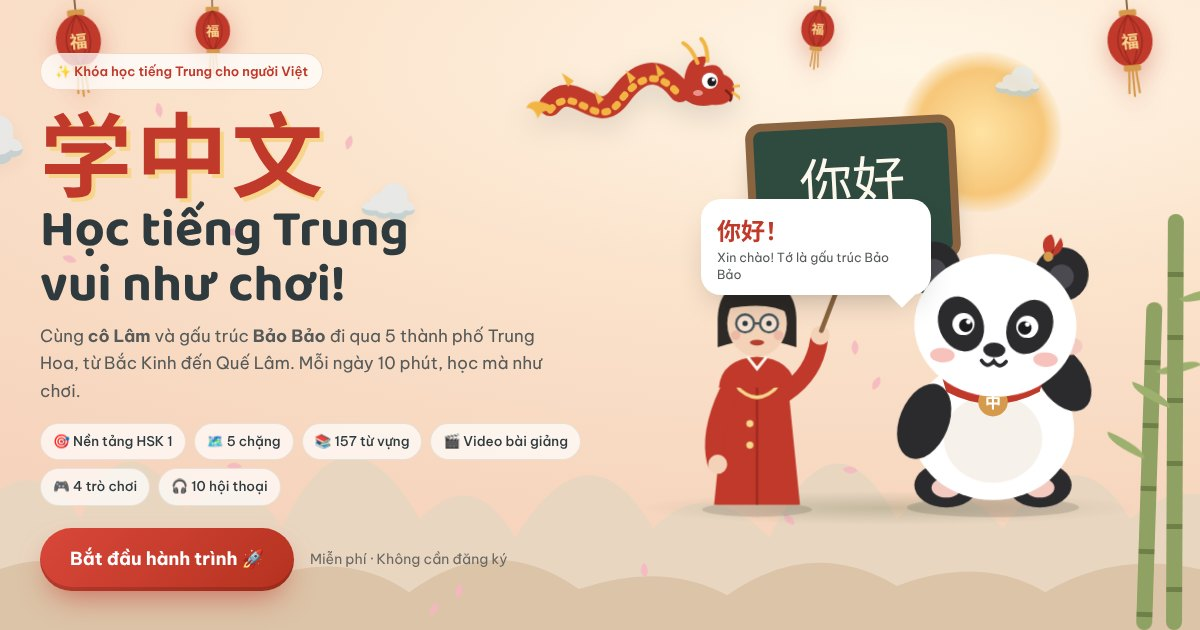
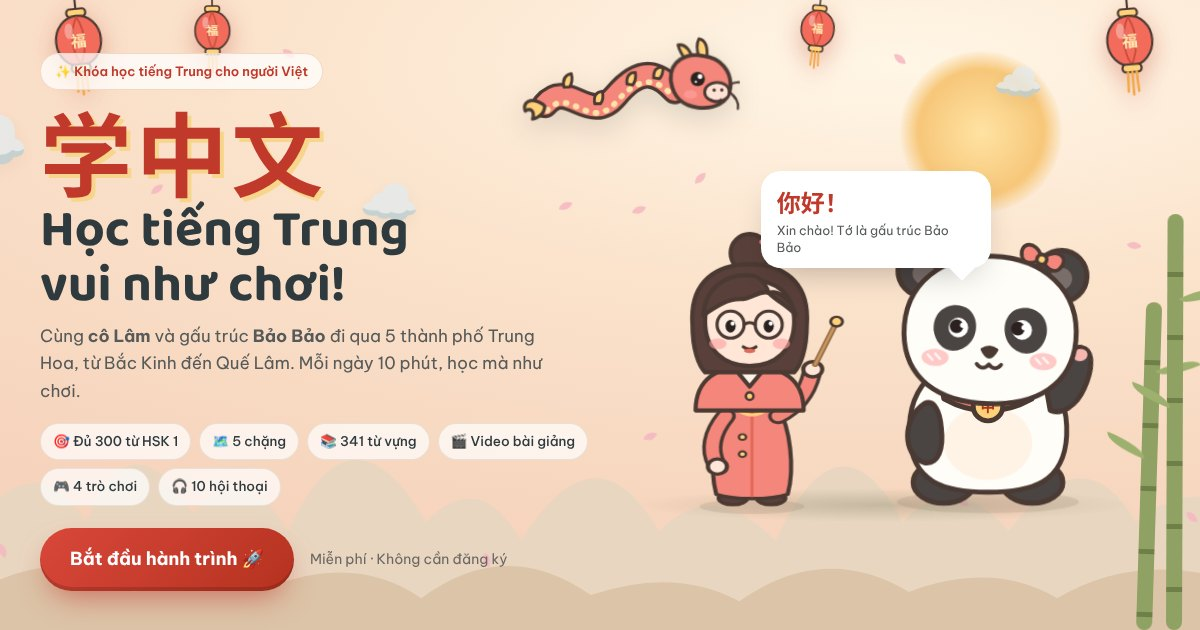
Vẽ lại nhân vật theo phong cách kawaii: gấu trúc Bảo Bảo, cô Lâm (chibi), rồng con, đèn lồng; cập nhật ảnh chia sẻ
Claude-Session: https://claude.ai/code/session_01895zUGssaLnJmXYWcAd8YV

diff --git a/index.html b/index.html
@@ -580,7 +580,7 @@ body.cover-mode header,body.cover-mode nav,body.cover-mode footer{display:none}
 @keyframes breathe{50%{transform:translateY(-4px) scale(1.01)}}
 @keyframes hop{0%{transform:translateY(0)}40%{transform:translateY(-46px) rotate(-6deg)}70%{transform:translateY(0) scaleY(.92)}100%{transform:none}}
 .panda-svg{position:relative;z-index:1}
-.p-bubble{position:absolute;z-index:3;left:-58%;top:-8%;background:#fff;border-radius:20px;padding:12px 16px;box-shadow:0 14px 34px -14px rgba(0,0,0,.3);opacity:0;transform:scale(.6) translateY(10px);transform-origin:bottom right;transition:.35s cubic-bezier(.3,1.5,.5,1);min-width:170px;max-width:230px}
+.p-bubble{position:absolute;z-index:3;left:-34%;top:-16%;background:#fff;border-radius:20px;padding:12px 16px;box-shadow:0 14px 34px -14px rgba(0,0,0,.3);opacity:0;transform:scale(.6) translateY(10px);transform-origin:bottom right;transition:.35s cubic-bezier(.3,1.5,.5,1);min-width:170px;max-width:230px}
 .p-bubble::after{content:'';position:absolute;right:20px;bottom:-9px;width:18px;height:18px;background:#fff;transform:rotate(45deg)}
 .p-bubble.show{opacity:1;transform:none}
 .p-bubble b{display:block;font-size:24px;color:#C0392B}.p-bubble small{font-size:12.5px;color:#565A59;display:block;line-height:1.35}
@@ -853,7 +853,24 @@ function say(t){try{speechSynthesis.cancel()}catch(e){}if(typeof stopAudio==='fu
 document.addEventListener('click',e=>{const b=e.target.closest('[data-say]');if(b){e.stopPropagation();say(b.dataset.say)}});
 
 /* ================= TEACHER SVG ================= */
-const TEACHER=`<svg class="teacher" viewBox="0 0 120 120"><circle cx="60" cy="60" r="58" fill="#F6E1DD"/><circle cx="60" cy="22" r="13" fill="#2E2A28"/><rect x="56" y="10" width="8" height="3" rx="1.5" fill="#C0392B" transform="rotate(-20 60 12)"/><path d="M27 66 Q26 30 60 30 Q94 30 93 66 L93 86 Q60 74 27 86Z" fill="#2E2A28"/><ellipse cx="60" cy="66" rx="25" ry="28" fill="#F3D2B8"/><path d="M34 54 Q44 36 70 40 Q86 44 87 58 Q70 47 34 54Z" fill="#2E2A28"/><circle cx="50" cy="66" r="7.5" fill="#fff" fill-opacity=".35" stroke="#46565B" stroke-width="2"/><circle cx="70" cy="66" r="7.5" fill="#fff" fill-opacity=".35" stroke="#46565B" stroke-width="2"/><line x1="57.5" y1="66" x2="62.5" y2="66" stroke="#46565B" stroke-width="2"/><circle cx="50" cy="66" r="2.2" fill="#2E3A3E"/><circle cx="70" cy="66" r="2.2" fill="#2E3A3E"/><circle cx="42" cy="76" r="4" fill="#E9A99A" opacity=".6"/><circle cx="78" cy="76" r="4" fill="#E9A99A" opacity=".6"/><ellipse class="mouth" cx="60" cy="82" rx="6" ry="2.4" fill="#B3402F"/><path d="M28 120 Q30 96 60 94 Q90 96 92 120Z" fill="#C0392B"/><path d="M52 94 L60 104 L68 94" fill="none" stroke="#FDF8EE" stroke-width="2.5"/></svg>`;
+const TEACHER=`<svg class="teacher" viewBox="0 0 120 120"><circle cx="60" cy="60" r="58" fill="#F6E1DD"/>
+<g stroke="#4B3A33" stroke-width="2.6" stroke-linejoin="round" stroke-linecap="round">
+<path d="M26 118 C26 98 40 90 60 90 C80 90 94 98 94 118Z" fill="#F4867B"/>
+<path d="M50 91 L60 103 L70 91" fill="#FFF3E6"/><circle cx="60" cy="109" r="2.4" fill="#FFD27A" stroke-width="1.6"/>
+<circle cx="60" cy="19" r="12" fill="#5A403A"/>
+<path d="M68 12 l10 -7" stroke="#F4867B" stroke-width="3.5"/><circle cx="79" cy="5" r="3.2" fill="#FFD27A" stroke-width="1.8"/>
+<path d="M24 64 C22 36 40 26 60 26 C80 26 98 36 96 64 C96 80 92 90 88 94 L32 94 C28 90 24 80 24 64Z" fill="#5A403A"/>
+<path d="M32 62 C32 44 44 36 60 36 C76 36 88 44 88 62 C88 80 76 90 60 90 C44 90 32 80 32 62Z" fill="#FFE6D6"/>
+<path d="M31 58 C32 40 46 32 60 33 C66 33 70 38 72 44 C66 42 62 48 54 48 C46 48 40 52 31 58Z" fill="#5A403A"/>
+<path d="M72 44 C78 42 86 48 89 58 C84 52 78 50 72 44Z" fill="#5A403A"/>
+<g fill="none" stroke-width="2"><circle cx="48" cy="64" r="8.5" fill="#fff" fill-opacity=".25"/><circle cx="72" cy="64" r="8.5" fill="#fff" fill-opacity=".25"/><path d="M56.5 64 Q60 61.5 63.5 64"/></g>
+</g>
+<ellipse cx="48" cy="65" rx="3.2" ry="4" fill="#2B2220"/><ellipse cx="72" cy="65" rx="3.2" ry="4" fill="#2B2220"/>
+<circle cx="49.3" cy="63.3" r="1.3" fill="#fff"/><circle cx="73.3" cy="63.3" r="1.3" fill="#fff"/>
+<ellipse cx="40" cy="76" rx="5.5" ry="3.4" fill="#FF9E9E" opacity=".6"/><ellipse cx="80" cy="76" rx="5.5" ry="3.4" fill="#FF9E9E" opacity=".6"/>
+<path d="M56 78 Q60 81 64 78" fill="none" stroke="#4B3A33" stroke-width="2" stroke-linecap="round"/>
+<ellipse class="mouth" cx="60" cy="80.5" rx="3.6" ry="1.4" fill="#E2685A"/>
+</svg>`;
 const tAva=(cls='')=>`<div class="t-ava ${cls}">${TEACHER}</div>`;
 const tipBox=t=>`<div class="tip">${tAva()}<div><b>Lời cô dặn</b><p>${t}</p></div></div>`;
 
@@ -1803,52 +1820,72 @@ function renderHome(){
 
 /* ================= COVER / SPLASH ================= */
 const PANDA=`<svg viewBox="0 0 220 240" class="panda-svg" aria-label="Gấu trúc Bảo Bảo">
- <ellipse cx="110" cy="232" rx="70" ry="8" fill="#000" opacity=".12" class="p-shadow"/>
- <g class="p-body">
-  <ellipse cx="72" cy="214" rx="26" ry="18" fill="#2B2B2E"/><ellipse cx="148" cy="214" rx="26" ry="18" fill="#2B2B2E"/>
-  <ellipse cx="72" cy="216" rx="12" ry="8" fill="#F3C9C0"/><ellipse cx="148" cy="216" rx="12" ry="8" fill="#F3C9C0"/>
-  <ellipse cx="110" cy="168" rx="66" ry="58" fill="#FFFFFF"/>
-  <ellipse cx="110" cy="176" rx="40" ry="36" fill="#F6F1EA"/>
-  <g class="p-arm-l"><ellipse cx="54" cy="162" rx="20" ry="32" fill="#2B2B2E" transform="rotate(22 54 162)"/></g>
-  <g class="p-arm-r"><ellipse cx="170" cy="128" rx="19" ry="31" fill="#2B2B2E" transform="rotate(-28 170 128)"/><ellipse cx="180" cy="104" rx="9" ry="7" fill="#F3C9C0"/></g>
-  <path d="M68 124 Q110 146 152 124 L148 138 Q110 158 72 138Z" fill="#C0392B"/><circle cx="110" cy="146" r="12" fill="#D69A4C"/><text x="110" y="151" text-anchor="middle" font-size="13" fill="#fff" font-family="Noto Sans SC" font-weight="700">中</text>
+ <ellipse cx="110" cy="230" rx="74" ry="9" fill="#7A5C4F" opacity=".14" class="p-shadow"/>
+ <g class="p-body" stroke="#4B3A33" stroke-width="4" stroke-linejoin="round" stroke-linecap="round">
+  <ellipse cx="74" cy="214" rx="25" ry="17" fill="#4A4443"/><ellipse cx="146" cy="214" rx="25" ry="17" fill="#4A4443"/>
+  <path d="M46 176 C44 128 78 112 110 112 C142 112 176 128 174 176 C172 214 146 222 110 222 C74 222 48 214 46 176Z" fill="#FFFDF8"/>
+  <ellipse cx="110" cy="182" rx="36" ry="30" fill="#FFF3E6" stroke="none"/>
+  <g class="p-arm-l"><path d="M58 150 C40 162 40 192 58 198 C70 200 74 186 72 170 C71 156 66 146 58 150Z" fill="#4A4443"/></g>
+  <g class="p-arm-r"><path d="M160 140 C170 120 182 104 194 108 C204 112 200 128 190 142 C182 154 168 160 160 154Z" fill="#4A4443"/><ellipse cx="192" cy="114" rx="6" ry="5" fill="#F7B7B0" stroke="none"/></g>
+  <path d="M72 132 Q110 152 148 132 L146 146 Q110 166 74 146Z" fill="#F4867B"/>
+  <circle cx="110" cy="152" r="12" fill="#FFD27A"/>
+  <text x="110" y="157" text-anchor="middle" font-size="12" fill="#B5321F" stroke="none" font-family="Noto Sans SC" font-weight="700">中</text>
  </g>
- <g class="p-head">
-  <circle cx="58" cy="40" r="22" fill="#2B2B2E"/><circle cx="162" cy="40" r="22" fill="#2B2B2E"/>
-  <circle cx="58" cy="42" r="10" fill="#4A4A50"/><circle cx="162" cy="42" r="10" fill="#4A4A50"/>
-  <ellipse cx="110" cy="84" rx="66" ry="58" fill="#FFFFFF"/>
-  <ellipse cx="82" cy="84" rx="18" ry="23" fill="#2B2B2E" transform="rotate(-25 82 84)"/><ellipse cx="138" cy="84" rx="18" ry="23" fill="#2B2B2E" transform="rotate(25 138 84)"/>
-  <g class="p-eyes"><circle cx="84" cy="84" r="9" fill="#fff"/><circle cx="136" cy="84" r="9" fill="#fff"/><circle cx="86" cy="85" r="5.5" fill="#1B1B1E" class="pupil"/><circle cx="134" cy="85" r="5.5" fill="#1B1B1E" class="pupil"/><circle cx="88" cy="82" r="2" fill="#fff"/><circle cx="136" cy="82" r="2" fill="#fff"/></g>
-  <ellipse cx="110" cy="104" rx="9" ry="6" fill="#2B2B2E"/><path d="M100 113 Q105 120 110 113 Q115 120 120 113" fill="none" stroke="#2B2B2E" stroke-width="3" stroke-linecap="round"/>
-  <ellipse cx="68" cy="110" rx="10" ry="6" fill="#F4A7A0" opacity=".7"/><ellipse cx="152" cy="110" rx="10" ry="6" fill="#F4A7A0" opacity=".7"/>
-  <g transform="translate(150 28) rotate(18)"><path d="M0 0 Q-14 -12 -4 -20 Q6 -12 0 0 Q14 -12 4 -20" fill="#C0392B"/><circle cx="0" cy="-2" r="4" fill="#D69A4C"/></g>
- </g>
-</svg>`;
-const DRAGON=`<svg viewBox="0 0 220 110" class="dragon-svg" aria-hidden="true">
- <path d="M30 70 C55 40, 75 95, 100 62 S145 38, 160 58" fill="none" stroke="#C0392B" stroke-width="22" stroke-linecap="round"/>
- <path d="M30 70 C55 40, 75 95, 100 62 S145 38, 160 58" fill="none" stroke="#F2B544" stroke-width="7" stroke-linecap="round" stroke-dasharray="3 9" transform="translate(0 5)"/>
- <path d="M48 52 l-6 -14 l12 8 M78 70 l-4 -14 l10 9 M110 50 l-4 -14 l10 8 M138 44 l-2 -14 l9 10" fill="#F2B544"/>
- <path d="M30 70 Q10 62 6 74 Q14 72 18 84 Q22 74 30 76Z" fill="#F2B544" class="d-tail"/>
- <g class="d-head" transform="translate(170 54)">
-  <path d="M-6 -6 Q-2 -34 18 -30 L14 -20 Q30 -26 34 -12 Q46 -8 44 6 Q40 20 22 18 Q4 22 -8 10Z" fill="#C0392B"/>
-  <path d="M8 -24 Q2 -40 -6 -44 M18 -26 Q18 -42 12 -48" stroke="#F2B544" stroke-width="4" fill="none" stroke-linecap="round"/>
-  <circle cx="20" cy="-6" r="8" fill="#fff"/><circle cx="22" cy="-5" r="4.5" fill="#1B1B1E"/><circle cx="23.5" cy="-7" r="1.6" fill="#fff"/>
-  <path d="M36 4 Q44 10 40 14" stroke="#7a1f16" stroke-width="2.5" fill="none" stroke-linecap="round"/>
-  <path d="M42 0 Q58 -6 64 4 M42 6 Q56 12 60 22" stroke="#F2B544" stroke-width="2.5" fill="none" stroke-linecap="round" class="d-whisk"/>
-  <ellipse cx="8" cy="6" rx="5" ry="3" fill="#F4A7A0" opacity=".8"/>
+ <g class="p-head" stroke="#4B3A33" stroke-width="4" stroke-linejoin="round" stroke-linecap="round">
+  <circle cx="54" cy="44" r="21" fill="#4A4443"/><circle cx="166" cy="44" r="21" fill="#4A4443"/>
+  <circle cx="54" cy="46" r="9" fill="#7A6E6B" stroke="none"/><circle cx="166" cy="46" r="9" fill="#7A6E6B" stroke="none"/>
+  <path d="M40 96 C38 54 70 30 110 30 C150 30 182 54 180 96 C178 132 150 150 110 150 C70 150 42 132 40 96Z" fill="#FFFDF8"/>
+  <g stroke="none"><path d="M64 92 C62 74 80 66 92 74 C102 82 100 100 88 106 C76 112 66 104 64 92Z" fill="#4A4443"/><path d="M156 92 C158 74 140 66 128 74 C118 82 120 100 132 106 C144 112 154 104 156 92Z" fill="#4A4443"/></g>
+  <g class="p-eyes" stroke="none"><circle cx="84" cy="89" r="8" fill="#fff"/><circle cx="136" cy="89" r="8" fill="#fff"/>
+   <circle cx="85" cy="90" r="5.6" fill="#2B2220" class="pupil"/><circle cx="135" cy="90" r="5.6" fill="#2B2220" class="pupil"/>
+   <circle cx="87.5" cy="87" r="2.2" fill="#fff"/><circle cx="137.5" cy="87" r="2.2" fill="#fff"/></g>
+  <path d="M104 106 Q110 102 116 106 Q113 112 110 112 Q107 112 104 106Z" fill="#4B3A33" stroke-width="2.5"/>
+  <path d="M100 118 Q105 124 110 118 Q115 124 120 118" fill="none" stroke-width="3"/>
+  <g stroke="none"><ellipse cx="66" cy="114" rx="11" ry="7" fill="#FF9E9E" opacity=".55"/><ellipse cx="154" cy="114" rx="11" ry="7" fill="#FF9E9E" opacity=".55"/>
+   <path d="M60 112 l4 4 M66 111 l4 4" stroke="#fff" stroke-width="2" opacity=".8"/><path d="M148 112 l4 4 M154 111 l4 4" stroke="#fff" stroke-width="2" opacity=".8"/></g>
+  <g transform="translate(150 30) rotate(16)" stroke-width="3"><path d="M0 0 C-10 -14 -22 -6 -16 4 C-12 10 -4 6 0 0Z M0 0 C10 -14 22 -6 16 4 C12 10 4 6 0 0Z" fill="#F4867B"/><circle cx="0" cy="1" r="4" fill="#FFD27A"/></g>
  </g>
 </svg>`;
-const LANTERN=`<svg viewBox="0 0 60 120" class="lantern-svg" aria-hidden="true"><line x1="30" y1="0" x2="30" y2="18" stroke="#7a5a3a" stroke-width="2"/><rect x="20" y="16" width="20" height="8" rx="2" fill="#D69A4C"/>
- <ellipse cx="30" cy="52" rx="26" ry="30" fill="#C0392B"/><path d="M30 22 Q14 52 30 82 M30 22 Q46 52 30 82 M30 22 Q2 52 30 82 M30 22 Q58 52 30 82" stroke="#9E2B20" stroke-width="1.6" fill="none"/>
- <text x="30" y="60" text-anchor="middle" font-size="20" fill="#F7D58B" font-family="Noto Sans SC" font-weight="700">福</text>
- <rect x="20" y="80" width="20" height="7" rx="2" fill="#D69A4C"/><path d="M26 87 L24 112 M30 87 L30 116 M34 87 L36 112" stroke="#D69A4C" stroke-width="2.5" stroke-linecap="round"/></svg>`;
+const DRAGON=`<svg viewBox="0 0 230 120" class="dragon-svg" aria-hidden="true">
+ <g stroke-linecap="round" stroke-linejoin="round">
+ <path d="M26 74 C50 46, 72 98, 100 66 S146 44, 162 62" fill="none" stroke="#4B3A33" stroke-width="28"/>
+ <path d="M26 74 C50 46, 72 98, 100 66 S146 44, 162 62" fill="none" stroke="#F4867B" stroke-width="21"/>
+ <path d="M28 80 C52 54, 72 104, 100 73 S146 51, 160 68" fill="none" stroke="#FFE2A8" stroke-width="6" stroke-dasharray="1 10"/>
+ <g fill="#FFD27A" stroke="#4B3A33" stroke-width="3"><path d="M46 56 q-2 -12 8 -14 q2 8 -2 14z"/><path d="M78 74 q-2 -12 8 -13 q2 8 -2 13z"/><path d="M112 54 q-1 -12 9 -12 q1 8 -3 13z"/><path d="M140 48 q0 -12 10 -11 q0 8 -4 12z"/></g>
+ <g class="d-tail"><path d="M24 74 C10 66 2 74 6 82 C12 78 16 82 14 90 C22 88 26 82 26 76Z" fill="#FFD27A" stroke="#4B3A33" stroke-width="3.5"/></g>
+ <g class="d-head" transform="translate(172 56)">
+  <path d="M10 -26 Q4 -44 -6 -42 Q-4 -34 2 -26" fill="#FFD27A" stroke="#4B3A33" stroke-width="3"/>
+  <path d="M24 -28 Q26 -46 16 -48 Q12 -40 16 -28" fill="#FFD27A" stroke="#4B3A33" stroke-width="3"/>
+  <path d="M-14 -4 C-16 -26 4 -34 20 -30 C38 -28 50 -14 48 4 C46 20 30 26 14 24 C-2 22 -12 12 -14 -4Z" fill="#F4867B" stroke="#4B3A33" stroke-width="4"/>
+  <ellipse cx="34" cy="8" rx="13" ry="10" fill="#FFE2D6" stroke="#4B3A33" stroke-width="3"/>
+  <circle cx="31" cy="6" r="1.8" fill="#4B3A33"/><circle cx="39" cy="6" r="1.8" fill="#4B3A33"/>
+  <circle cx="14" cy="-6" r="7.5" fill="#2B2220"/><circle cx="16.5" cy="-8.5" r="2.6" fill="#fff"/><circle cx="12" cy="-3" r="1.2" fill="#fff"/>
+  <ellipse cx="6" cy="10" rx="7" ry="4.5" fill="#FF9E9E" opacity=".7"/>
+  <path d="M28 16 Q33 20 38 16" fill="none" stroke="#4B3A33" stroke-width="2.5"/>
+  <path class="d-whisk" d="M46 0 Q60 -8 64 2 M46 8 Q58 14 58 24" fill="none" stroke="#4B3A33" stroke-width="2.5"/>
+ </g></g>
+</svg>`;
+const LANTERN=`<svg viewBox="0 0 60 120" class="lantern-svg" aria-hidden="true"><g stroke="#4B3A33" stroke-width="2.5" stroke-linejoin="round" stroke-linecap="round"><line x1="30" y1="0" x2="30" y2="18"/><rect x="19" y="15" width="22" height="9" rx="4" fill="#FFD27A"/>
+ <ellipse cx="30" cy="52" rx="26" ry="29" fill="#F26B5B"/><path d="M30 24 Q16 52 30 80 M30 24 Q44 52 30 80" fill="none" stroke="#C94A3C" stroke-width="2"/>
+ <ellipse cx="20" cy="40" rx="5" ry="9" fill="#fff" opacity=".35" stroke="none"/>
+ <rect x="19" y="79" width="22" height="9" rx="4" fill="#FFD27A"/><path d="M25 88 L24 110 M30 88 L30 114 M35 88 L36 110" stroke="#F4A94A" stroke-width="3"/></g>
+ <text x="30" y="59" text-anchor="middle" font-size="18" fill="#FFE9B0" font-family="Noto Sans SC" font-weight="700">福</text></svg>`;
 function teacherFull(){return `<svg viewBox="0 0 160 260" class="teacher-full" aria-label="Cô Lâm">
- <ellipse cx="80" cy="254" rx="46" ry="6" fill="#000" opacity=".12"/>
- <g class="tf-body"><path d="M44 250 L54 150 Q80 138 106 150 L116 250Z" fill="#C0392B"/><path d="M80 150 L80 250" stroke="#9E2B20" stroke-width="2"/><path d="M62 150 Q80 170 98 150" fill="none" stroke="#F7D58B" stroke-width="3"/>
-  <circle cx="74" cy="182" r="3" fill="#F7D58B"/><circle cx="74" cy="200" r="3" fill="#F7D58B"/>
-  <path d="M56 156 Q40 190 46 214" stroke="#C0392B" stroke-width="16" stroke-linecap="round" fill="none"/><circle cx="47" cy="216" r="8" fill="#F3D2B8"/></g>
- <g class="tf-arm"><path d="M104 156 Q128 140 132 112" stroke="#C0392B" stroke-width="15" stroke-linecap="round" fill="none"/><circle cx="133" cy="108" r="8" fill="#F3D2B8"/><line x1="134" y1="104" x2="150" y2="62" stroke="#8A6440" stroke-width="4" stroke-linecap="round"/><circle cx="151" cy="60" r="4" fill="#D69A4C"/></g>
- <g transform="translate(20 32)">${TEACHER.replace('class="teacher"','class="teacher tf-head" width="120" height="120"').replace('<circle cx="60" cy="60" r="58" fill="#F6E1DD"/>','')}</g>
+ <ellipse cx="80" cy="254" rx="44" ry="6" fill="#7A5C4F" opacity=".14"/>
+ <g transform="translate(0 50) scale(1 .8)"><g class="tf-body" stroke="#4B3A33" stroke-width="3.5" stroke-linejoin="round" stroke-linecap="round">
+  <ellipse cx="64" cy="246" rx="12" ry="7" fill="#5A403A"/><ellipse cx="96" cy="246" rx="12" ry="7" fill="#5A403A"/>
+  <path d="M50 242 C44 214 48 172 58 152 C66 146 94 146 102 152 C112 172 116 214 110 242 C96 248 64 248 50 242Z" fill="#F4867B"/>
+  <path d="M80 152 L80 244" stroke="#E2685A" stroke-width="2.5"/>
+  <path d="M66 152 Q80 166 94 152" fill="none" stroke="#FFD27A" stroke-width="3"/>
+  <circle cx="72" cy="182" r="3" fill="#FFD27A" stroke-width="2"/><circle cx="72" cy="200" r="3" fill="#FFD27A" stroke-width="2"/>
+  <path d="M58 160 C46 178 44 196 50 210" fill="none" stroke="#4B3A33" stroke-width="17"/><path d="M58 160 C46 178 44 196 50 210" fill="none" stroke="#F4867B" stroke-width="11"/>
+  <circle cx="51" cy="213" r="8" fill="#FFE6D6"/></g></g>
+ <g transform="translate(0 50) scale(1 .8)"><g class="tf-arm" stroke="#4B3A33" stroke-linejoin="round" stroke-linecap="round">
+  <path d="M102 160 Q124 146 130 116" fill="none" stroke-width="17"/><path d="M102 160 Q124 146 130 116" fill="none" stroke="#F4867B" stroke-width="11"/>
+  <circle cx="131" cy="111" r="8" fill="#FFE6D6" stroke-width="3.5"/>
+  <line x1="133" y1="106" x2="150" y2="64" stroke="#8A6440" stroke-width="5"/><line x1="133" y1="106" x2="150" y2="64" stroke="#C9955E" stroke-width="2.5"/>
+  <circle cx="151" cy="61" r="5" fill="#FFD27A" stroke-width="2.5"/></g></g>
+ <g transform="translate(-2 16)">${TEACHER.replace('class="teacher"','class="teacher tf-head" width="160" height="160"').replace('<circle cx="60" cy="60" r="58" fill="#F6E1DD"/>','')}</g>
 </svg>`}
 const COVER_WORDS=[['你好','nǐ hǎo','xin chào'],['谢谢','xièxie','cảm ơn'],['爱','ài','yêu'],['中文','Zhōngwén','tiếng Trung'],['朋友','péngyou','bạn bè'],['加油','jiāyóu','cố lên'],['快乐','kuàilè','vui vẻ'],['学习','xuéxí','học tập'],['熊猫','xióngmāo','gấu trúc'],['老师','lǎoshī','giáo viên']];
 const PANDA_LINES=[['你好！','Xin chào! Tớ là gấu trúc Bảo Bảo'],['一起学中文吧！','Cùng học tiếng Trung nhé!'],['加油！','Cố lên!'],['我爱你们！','Tớ yêu các bạn!'],['太棒了！','Tuyệt quá!']];

diff --git a/sw.js b/sw.js
@@ -1,5 +1,5 @@
 /* Service worker: học offline. Đổi V khi cập nhật để làm mới bộ nhớ đệm. */
-const V='zh-lam-v2';
+const V='zh-lam-v3';
 const CORE=['./','index.html','manifest.json','favicon.svg','favicon-32.png','apple-touch-icon.png','icon-192.png','icon-512.png'];
 self.addEventListener('install',e=>{e.waitUntil(caches.open(V).then(c=>c.addAll(CORE)).then(()=>self.skipWaiting()))});
 self.addEventListener('activate',e=>{e.waitUntil(caches.keys().then(ks=>Promise.all(ks.filter(k=>k!==V).map(k=>caches.delete(k)))).then(()=>self.clients.claim()))});
